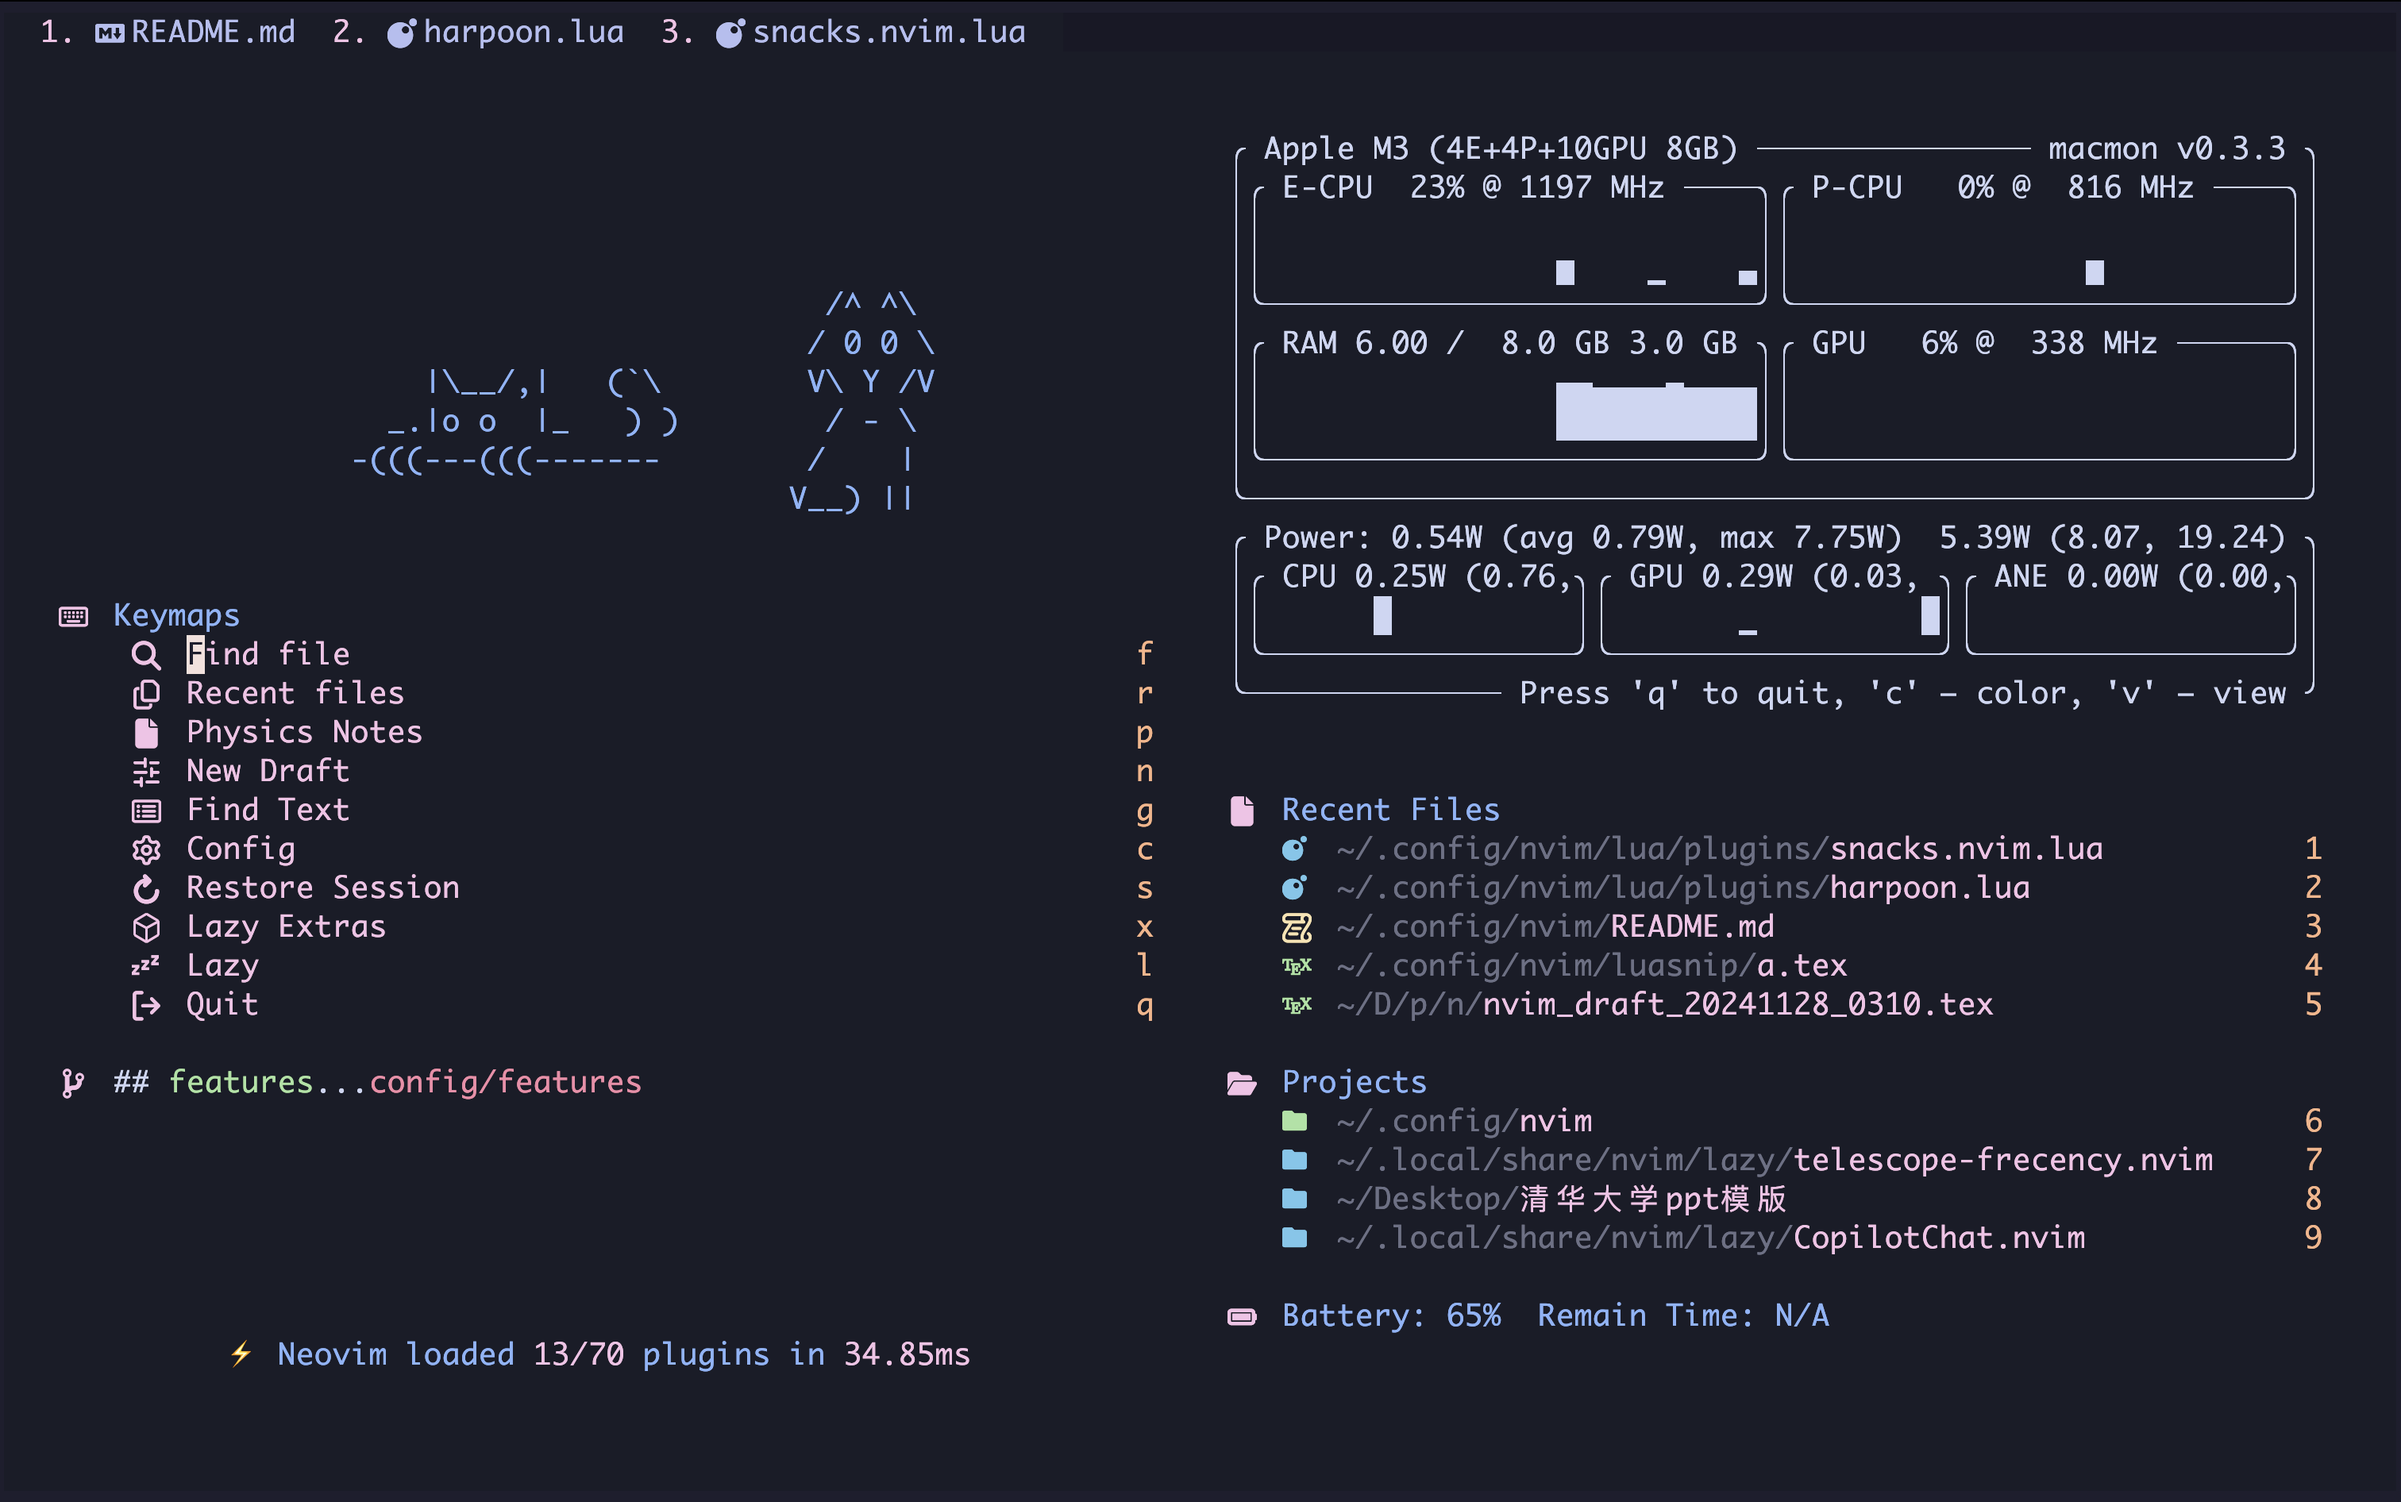
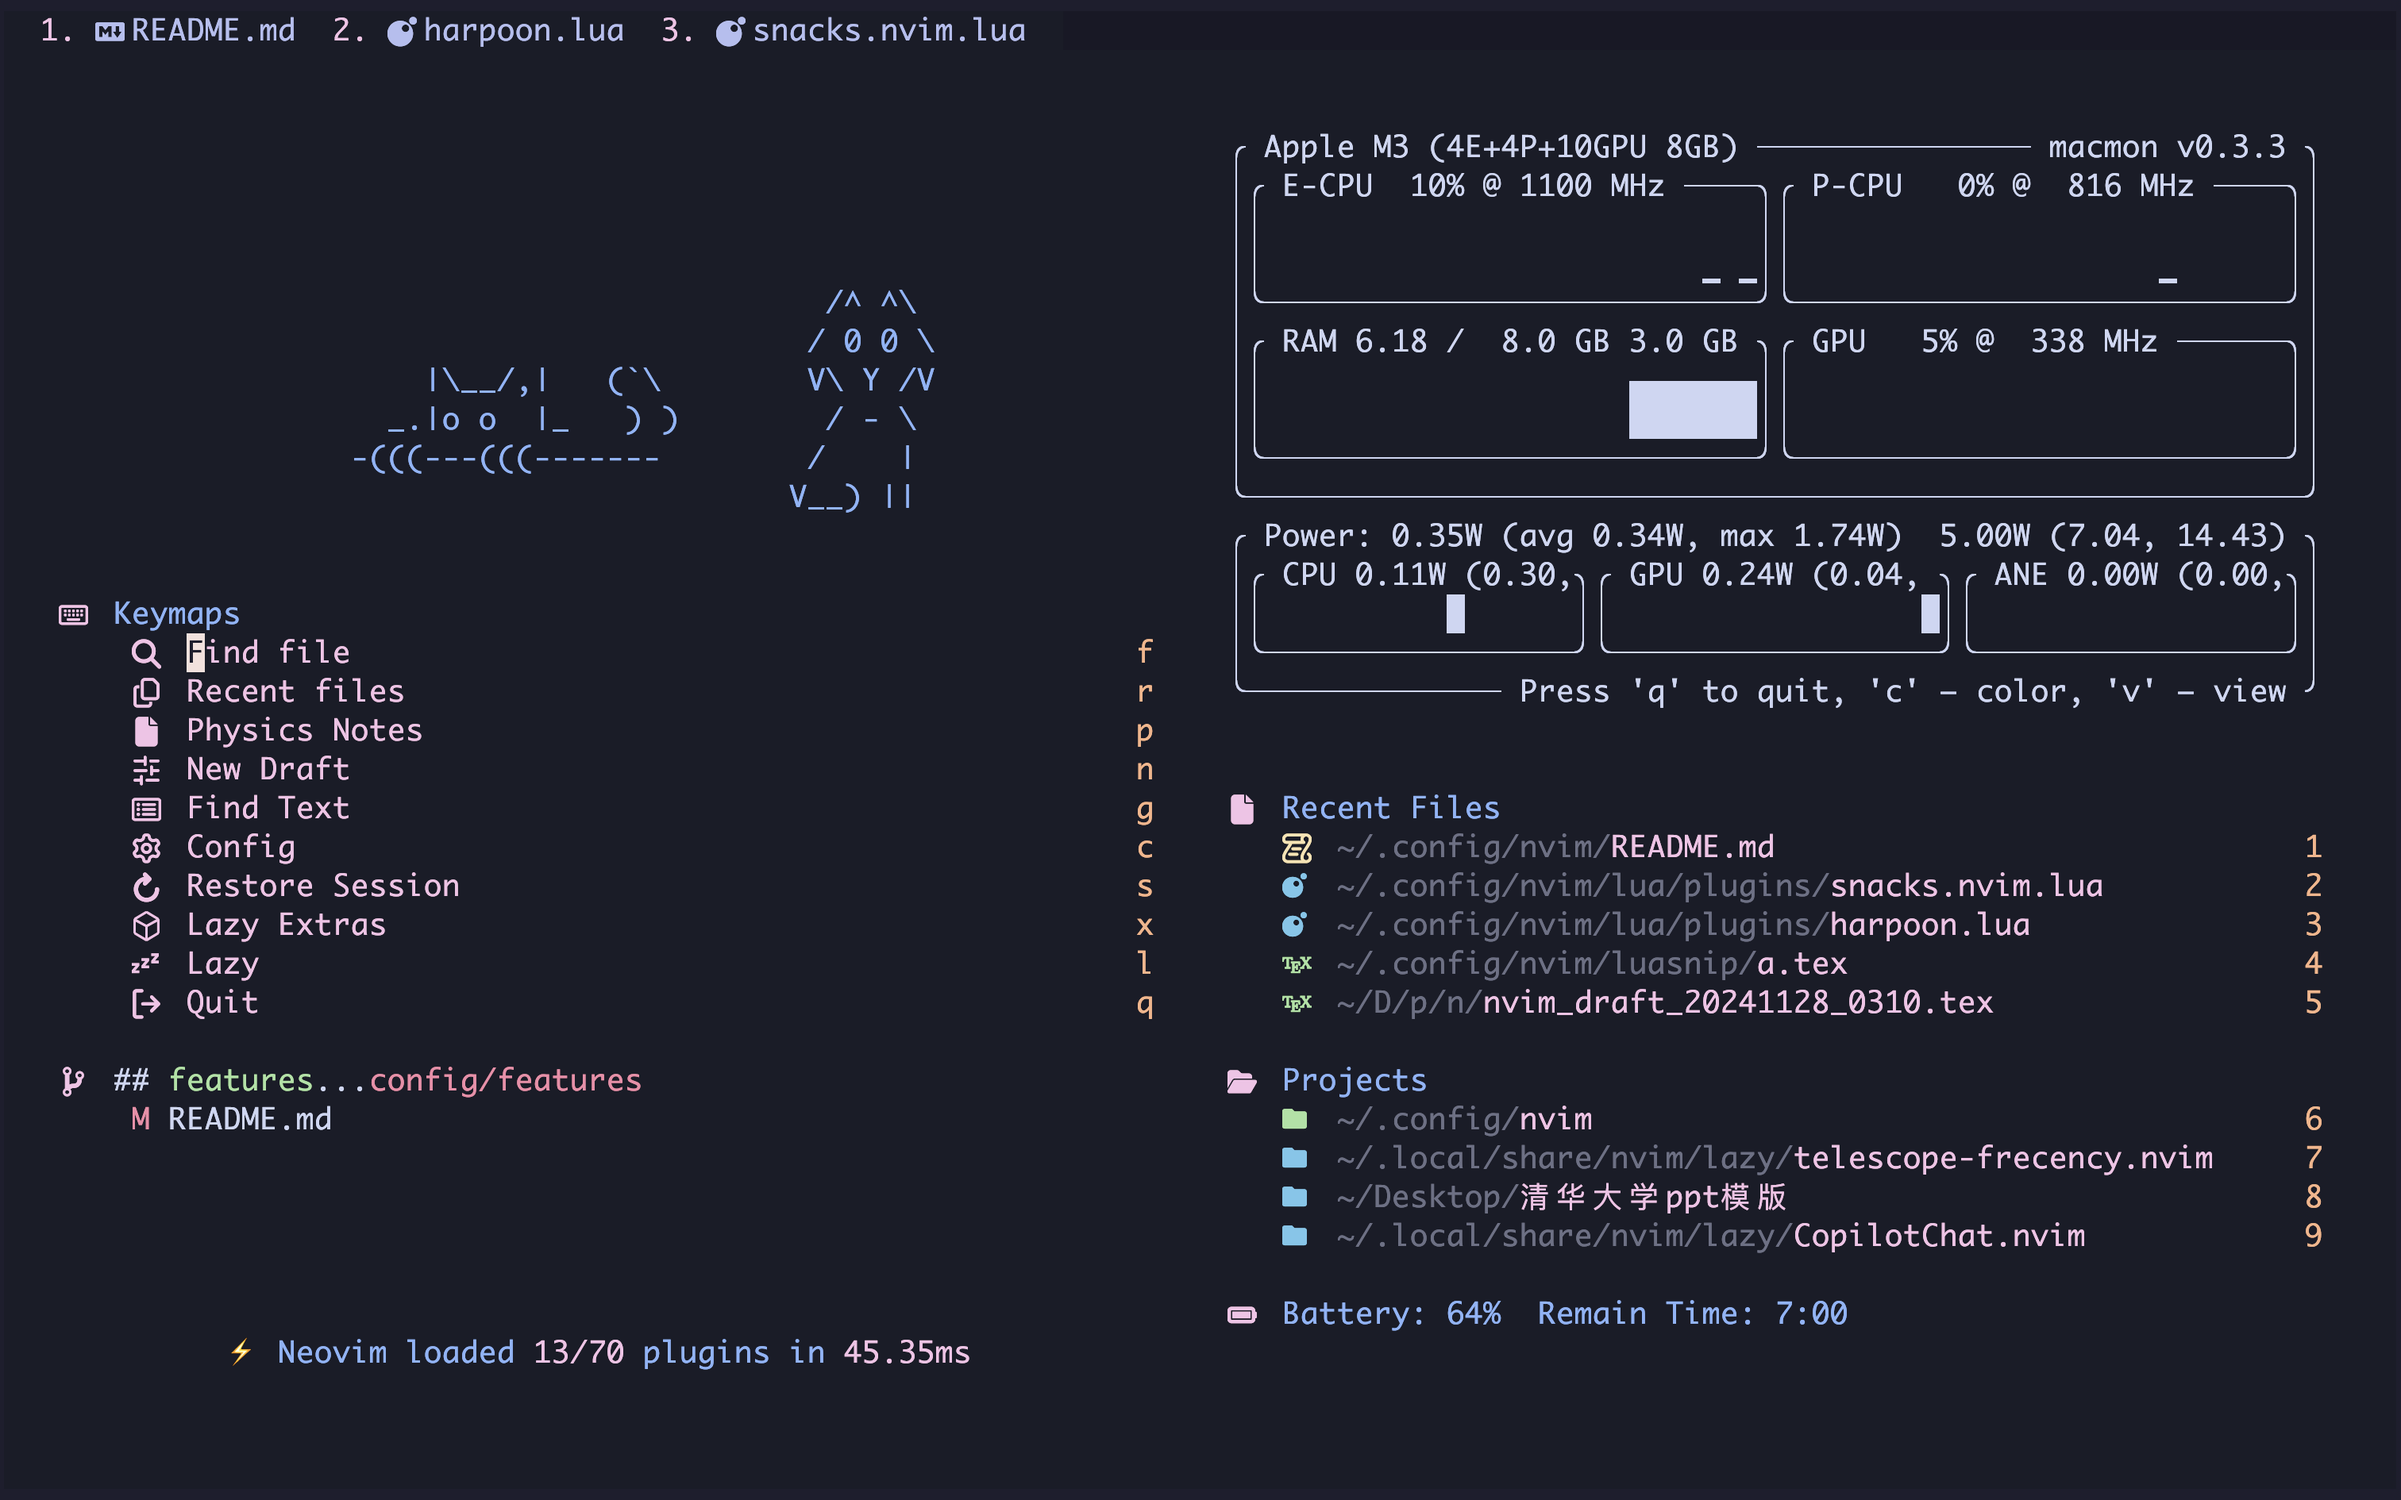
Update README.md

diff --git a/README.md b/README.md
@@ -1,6 +1,7 @@
 # 我的 neovim 配置 (基于 MacOS 和 iTerm2)
 
 ![dashboard](./readme_fig/dashboard.png)
+
 这是本人自用的 Neovim 配置，fork 自小马的 Neovim [配置](https://github.com/YinFengQi/nvim-config-based-on-lazyvim)。因为不满于 Neovim 原生的中文输入支持 (需要频繁切换输入法，且例如 `jj` `jk` 等的字母快捷键不能在中文输入法被激活时使用)，进行了基于 [rime](https://github.com/rime) 的中文输入法集成，实现了中文数学笔记的无输入法切换输入，目前中文输入经短期测试可以流畅使用，已被用于课堂笔记 (虽然现在很多都是用英文写的了) 、论文和实验报告 (这个必须得中文写) 的书写中。
 
 *基本配置思路*：不出 BUG 就不动，出了 BUG 就修复，出了 BUG 修复不了就换插件 (这句话是 Copilot 写的)。*基本要求*：流畅书写第一位，能耗第二位，能不用 gui/gpu 加速就不用，尽可能保持终端的快速流畅低功耗 (这句话是我写的，目前在 M3 MacBook Pro 上可以使用约 15 小时，如果打开 gpu 加速大约可以用 6 小时)。
@@ -35,9 +36,9 @@
 
 * [snacks](https://github.com/folke/snacks.nvim) Dashboard 的 logo 是我和女朋友的互称，即猫猫狗狗。目前选自 [ASCII 狗狗图](https://www.asciiart.eu/animals/dogs) 与 [ASCII](https://www.asciiart.eu/animals/cats)，以后想要转换成自己画的图;
 
-* 因为过往老 MacBook Pro 的黑暗三小时 VSCode 续航支持，我对 **续航** 具有较高的要求。鉴于整体需要使用 GPU 加速，不可避免会压缩 M3 MacBook Pro 的续航时间，因此我配置了一个电池电量监控，用 pmset 读取电池电量与剩余时间体现在 Dashboard 与 [lualine](https://github.com/nvim-lualine/lualine.nvim) 中，当我使用 kitty 终端时续航可以达到 12 小时以上，比较令人满意;
+* 因为过往老 MacBook Pro 的黑暗三小时 VSCode 续航支持，我对 **续航** 具有较高的要求。鉴于整体需要使用 GPU 加速，不可避免会压缩 M3 MacBook Pro 的续航时间，因此我配置了一个电池电量监控，用 `pmset` 读取电池电量与剩余时间体现在 Dashboard 与 [lualine](https://github.com/nvim-lualine/lualine.nvim) 中，当我使用 kitty 终端时续航可以达到 12 小时以上，比较令人满意;
 
-* 取消了占地方还不实用的 [bufferline](https://github.com/akinsho/bufferline.nvim)  插件 (这个插件事实上不符合我对 Neovim **全键盘控制哲学**的认识，因为它在 ui 层面诱导了鼠标的操作，并且确实很占空间)，集成 [harpoon](https://github.com/ThePrimeagen/harpoon/tree/harpoon2) 与 bufferline 的功能，配合[telescope](https://github.com/nvim-telescope/telescope.nvim) 的 buffer 搜索快捷键 `<leader>,`等实现 buffer 管理。
+* 取消了占地方还不实用的 [bufferline](https://github.com/akinsho/bufferline.nvim)  插件 (这个插件事实上不符合我对 Neovim **全键盘控制哲学**的认识，因为它在 ui 层面诱导了鼠标的操作，并且确实很占空间)，集成 [harpoon](https://github.com/ThePrimeagen/harpoon/tree/harpoon2) 与 bufferline 的功能，配合 [telescope](https://github.com/nvim-telescope/telescope.nvim) 的 buffer 搜索快捷键 `<leader>,`等实现 buffer 管理。
 
 ## 🤔 TODO
 
@@ -51,7 +52,7 @@
 
 * 更换所有配置文件至 LazyVim API，精简后续配置，增加运行速度，为日后迁移到 LazyVim v13.+做准备;
 
-* 更换所有配置至组合 kitty+macOS，实现更快更省电的性能展现 (iTerm2 有时候会卡，并且在打开 GPU 加速的时候会导致电池电量下降速度加快); 
+* 更换所有配置至组合 kitty+macOS，实现更快更省电的性能展现 (iTerm2 有时候会卡，并且在打开 GPU 加速的时候会导致电池电量下降速度加快) (目前已经可以实现基本使用，除了 pdf 预览);
 
 * 优化 telescope 的使用，增加词频搜索等功能; 
 
@@ -75,7 +76,7 @@ git clone https://github.com/pxwg/MACOS_nvim_config.git ~/.config/nvim
 ```
 打开 neovim 即可自动安装插件，需要进行版本管理的插件已经在 lazylock 中锁定，避免冲突;
 
-* MacOS & iTerm2 (目前没有跨平台方案) 😢;
+* MacOS & iTerm2 (目前没有跨平台方案) 😢 ，正在迁移到 kitty;
 
 * neovim v0.9.5+，LazyVim v13.0- (目前没有改变所有 api 以适应 Breaking Update 的癖好，虽然期中考试考完了但也没有这么多时间，因此 LazyVim 被锁定在 v12.44.1, LazyVim 不需要下载，因为本配置文件会自行 boostrap 它);
 
